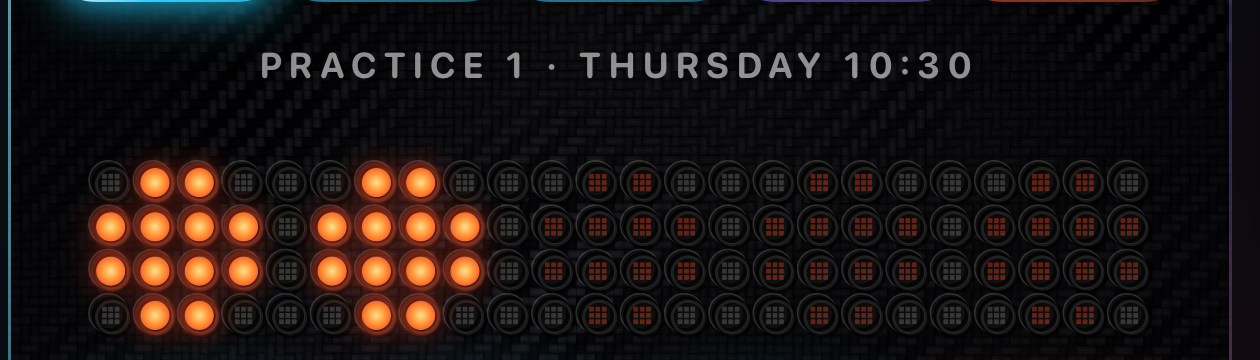
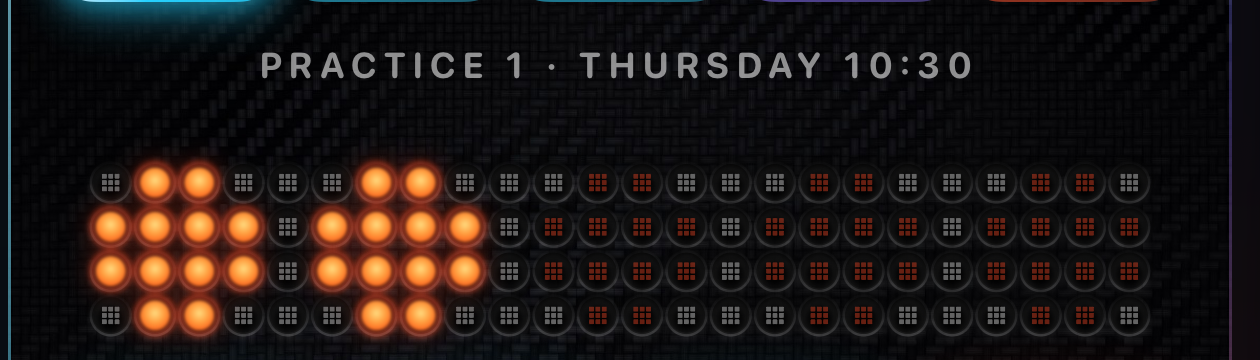
Sockets and LEDs redrawn after the reference: soft vertical cavity shading, lip bright along the bottom, rim catching the LED colour

Changed region(s): [[0.0619, 0.4278, 0.9286, 0.9472]]

diff --git a/TeamRadio/Views/CockpitKit.swift b/TeamRadio/Views/CockpitKit.swift
@@ -233,59 +233,72 @@ struct DotMatrixBoard: View {
                     for (key, v) in goal { if v > 0 { lit[key] = 1 } else { armed.insert(key) } }
                 }
 
-                // sockets: dark cavity with a faint rim; unlit ones show the 3×3 grey die
+                // sockets, lit from above like the reference: a thin lip that brightens
+                // along the bottom edge, a cavity shaded dark at the top and lighter at
+                // the floor, soft shadow inside the top wall, soft light on the far wall
+                var sockets: [CGPoint] = []
+                for c in 0..<cols { for r in 0..<rows { sockets.append(center(c, r)) } }
+                for p in sockets {
+                    ctx.stroke(Path(ellipseIn: rect(p, hole * 1.03)),
+                               with: .linearGradient(Gradient(colors: [Color.white.opacity(0.03), Color.white.opacity(0.18)]),
+                                                     startPoint: CGPoint(x: p.x, y: p.y - hole), endPoint: CGPoint(x: p.x, y: p.y + hole)),
+                               lineWidth: 1.3)
+                    disc(p, hole, .linearGradient(Gradient(colors: [Color.black.opacity(0.97), Color.black.opacity(0.72)]),
+                                                  startPoint: CGPoint(x: p.x, y: p.y - hole), endPoint: CGPoint(x: p.x, y: p.y + hole)), in: &ctx)
+                }
+                ctx.drawLayer { layer in
+                    layer.addFilter(.blur(radius: 1.3))
+                    for p in sockets {
+                        layer.stroke(Path(ellipseIn: rect(CGPoint(x: p.x, y: p.y - 1.3), hole * 0.9)), with: .color(.black.opacity(0.8)), lineWidth: 2.2)
+                        layer.stroke(Path(ellipseIn: rect(CGPoint(x: p.x, y: p.y + 1.1), hole * 0.9)), with: .color(.white.opacity(0.12)), lineWidth: 1.6)
+                    }
+                }
+                // unlit: the 3×3 grey die
                 for c in 0..<cols {
                     for r in 0..<rows {
-                        let p = center(c, r)
                         let key = r * 1000 + c
-                        // bevelled cavity, lit from the top-left: bright lip and shadowed
-                        // wall on that side, shadowed lip and lit wall on the far side
-                        disc(CGPoint(x: p.x + 0.9, y: p.y + 0.9), hole * 1.1, .color(.black.opacity(0.6)), in: &ctx)
-                        disc(CGPoint(x: p.x - 0.8, y: p.y - 0.8), hole * 1.08, .color(.white.opacity(0.16)), in: &ctx)
-                        disc(p, hole * 1.02, .color(.black.opacity(0.95)), in: &ctx)
-                        disc(p, hole * 0.94, .linearGradient(Gradient(colors: [Color.black.opacity(0.95), Color.white.opacity(0.09)]),
-                                                             startPoint: CGPoint(x: p.x - hole, y: p.y - hole), endPoint: CGPoint(x: p.x + hole, y: p.y + hole)), in: &ctx)
-                        ctx.stroke(Path(ellipseIn: rect(CGPoint(x: p.x - 0.7, y: p.y - 0.7), hole * 0.9)), with: .color(.black.opacity(0.7)), lineWidth: 1.4)
-                        ctx.stroke(Path(ellipseIn: rect(CGPoint(x: p.x + 0.6, y: p.y + 0.6), hole * 0.86)), with: .color(.white.opacity(0.10)), lineWidth: 1.0)
-                        if lit[key] == nil {
-                            let tint: Color = armed.contains(key) ? lightColor.opacity(0.35) : .white.opacity(0.17)
-                            for dx in -1...1 {
-                                for dy in -1...1 {
-                                    let q = CGPoint(x: p.x + CGFloat(dx) * dieStep, y: p.y + CGFloat(dy) * dieStep)
-                                    ctx.fill(Path(roundedRect: CGRect(x: q.x - die / 2, y: q.y - die / 2, width: die, height: die), cornerRadius: die * 0.2), with: .color(tint))
-                                }
+                        guard lit[key] == nil else { continue }
+                        let p = center(c, r)
+                        let tint: Color = armed.contains(key) ? lightColor.opacity(0.4) : Color(white: 0.55).opacity(0.7)
+                        for dx in -1...1 {
+                            for dy in -1...1 {
+                                let q = CGPoint(x: p.x + CGFloat(dx) * dieStep, y: p.y + CGFloat(dy) * dieStep)
+                                ctx.fill(Path(roundedRect: CGRect(x: q.x - die / 2, y: q.y - die / 2, width: die, height: die), cornerRadius: die * 0.18), with: .color(tint))
                             }
                         }
                     }
                 }
 
-                // lit LEDs: soft halo outside, light caught on the cavity wall, a big soft-edged core
+                // lit LEDs: a soft halo on the surface, the cavity rim catching the
+                // colour, then the big soft-edged luminous disc
                 let glowing = lit.map { (center($0.key % 1000, $0.key / 1000), $0.value) }
                 ctx.drawLayer { layer in
                     layer.blendMode = .plusLighter
                     layer.addFilter(.blur(radius: hole * 0.7))
-                    for (p, k) in glowing { disc(p, hole * 1.1, .color(color.opacity(0.32 * k)), in: &layer) }
+                    for (p, k) in glowing { disc(p, hole * 1.1, .color(color.opacity(0.3 * k)), in: &layer) }
                 }
                 ctx.drawLayer { layer in
                     layer.blendMode = .plusLighter
-                    layer.addFilter(.blur(radius: 0.6))
+                    layer.addFilter(.blur(radius: 1.0))
                     for (p, k) in glowing {
-                        layer.stroke(Path(ellipseIn: rect(p, hole * 0.97)), with: .color(color.opacity(0.5 * k)), lineWidth: 1)
+                        layer.stroke(Path(ellipseIn: rect(p, hole * 1.02)), with: .color(color.opacity(0.6 * k)), lineWidth: 1.4)
                     }
                 }
                 let warm = page == 0
-                for (p, k) in glowing {
-                    let core = hole * 0.78
-                    let stops: [Gradient.Stop] = warm
-                        ? [.init(color: Color(red: 1.0, green: 0.88, blue: 0.55), location: 0),
-                           .init(color: Color(red: 1.0, green: 0.62, blue: 0.25), location: 0.55),
-                           .init(color: Color(red: 1.0, green: 0.4, blue: 0.15), location: 1)]
-                        : [.init(color: Color(red: 0.85, green: 1.0, blue: 1.0), location: 0),
-                           .init(color: Color(red: 0.45, green: 0.92, blue: 1.0), location: 0.55),
-                           .init(color: Color(red: 0.15, green: 0.75, blue: 0.95), location: 1)]
-                    ctx.opacity = 0.35 + 0.65 * k
-                    disc(p, core, .radialGradient(Gradient(stops: stops), center: p, startRadius: 0, endRadius: core), in: &ctx)
-                    ctx.opacity = 1
+                ctx.drawLayer { layer in
+                    layer.addFilter(.blur(radius: 0.5))
+                    for (p, k) in glowing {
+                        let core = hole * 0.8
+                        let stops: [Gradient.Stop] = warm
+                            ? [.init(color: Color(red: 1.0, green: 0.86, blue: 0.5), location: 0),
+                               .init(color: Color(red: 1.0, green: 0.62, blue: 0.25), location: 0.6),
+                               .init(color: Color(red: 1.0, green: 0.45, blue: 0.15), location: 1)]
+                            : [.init(color: Color(red: 0.85, green: 1.0, blue: 1.0), location: 0),
+                               .init(color: Color(red: 0.38, green: 0.9, blue: 1.0), location: 0.6),
+                               .init(color: Color(red: 0.18, green: 0.78, blue: 0.95), location: 1)]
+                        layer.opacity = 0.35 + 0.65 * k
+                        disc(p, core, .radialGradient(Gradient(stops: stops), center: CGPoint(x: p.x, y: p.y - core * 0.15), startRadius: 0, endRadius: core * 1.05), in: &layer)
+                    }
                 }
             }
         }
